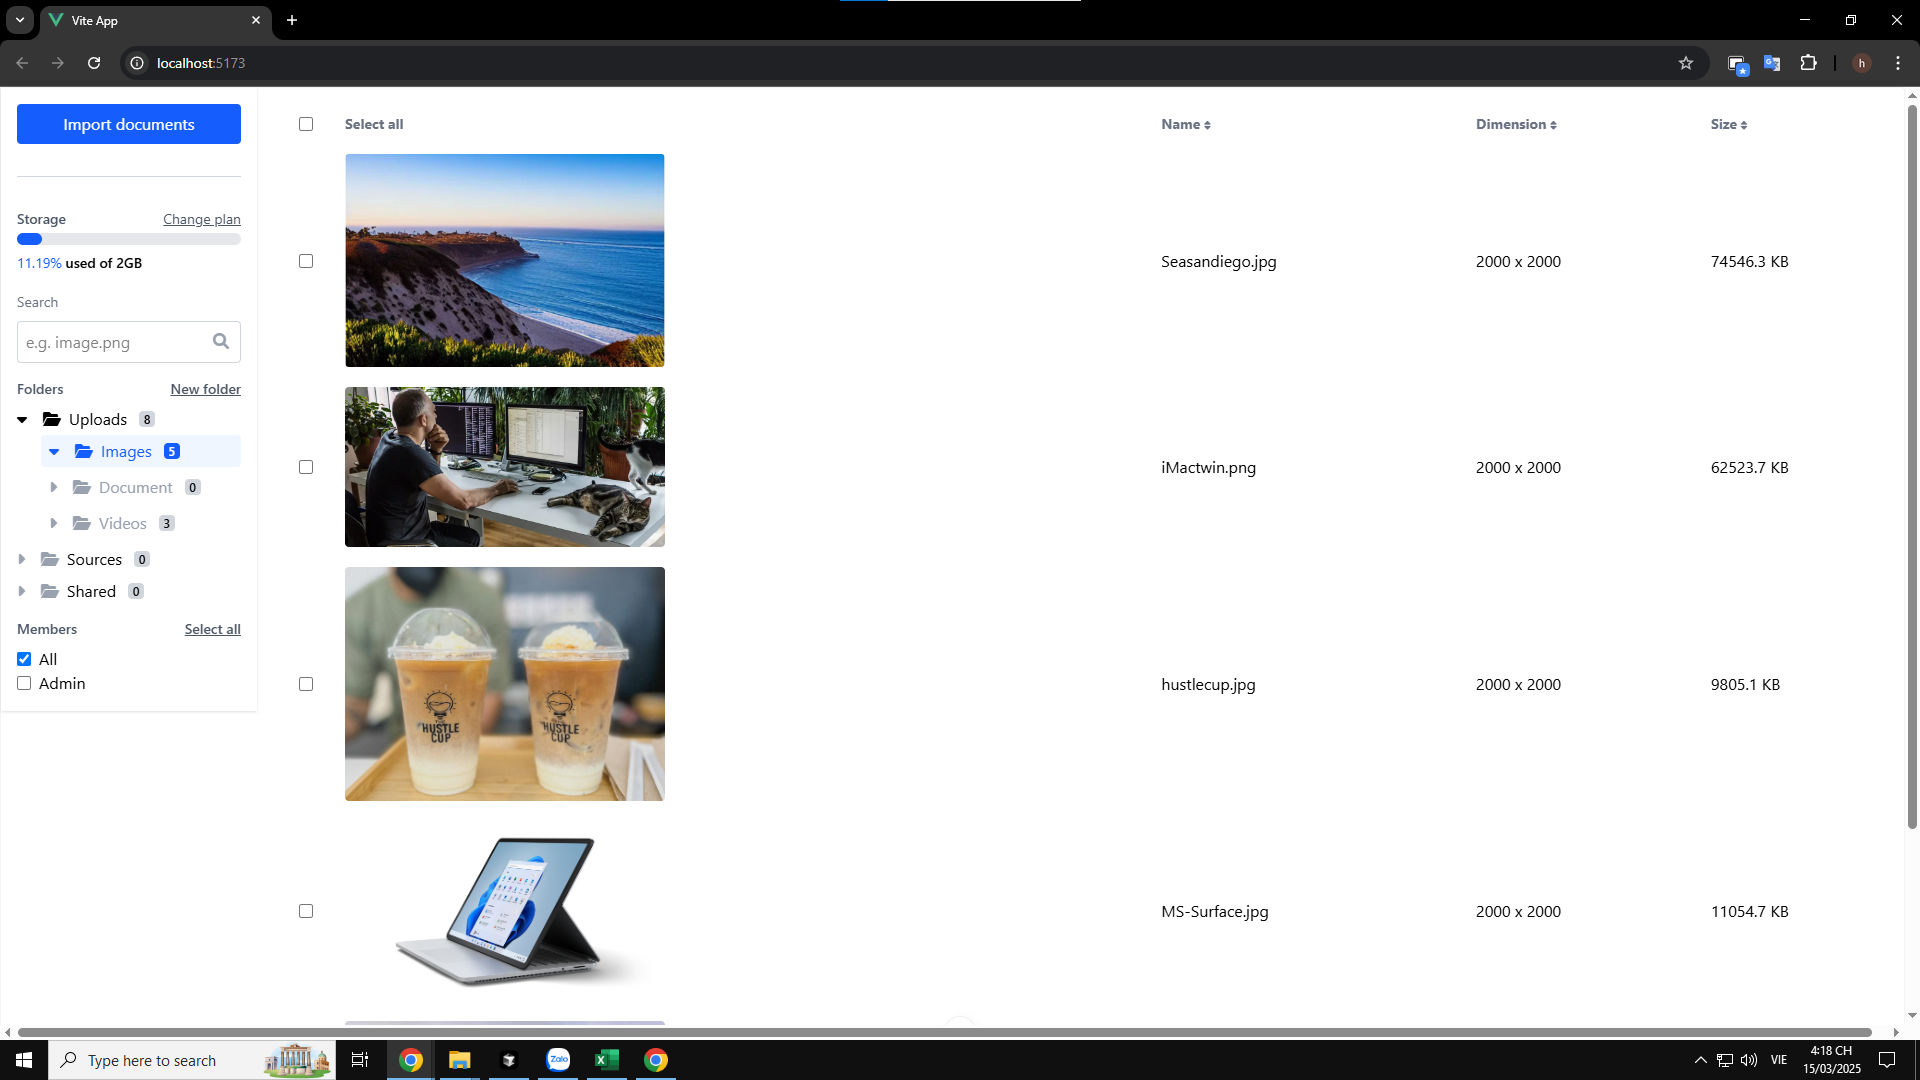
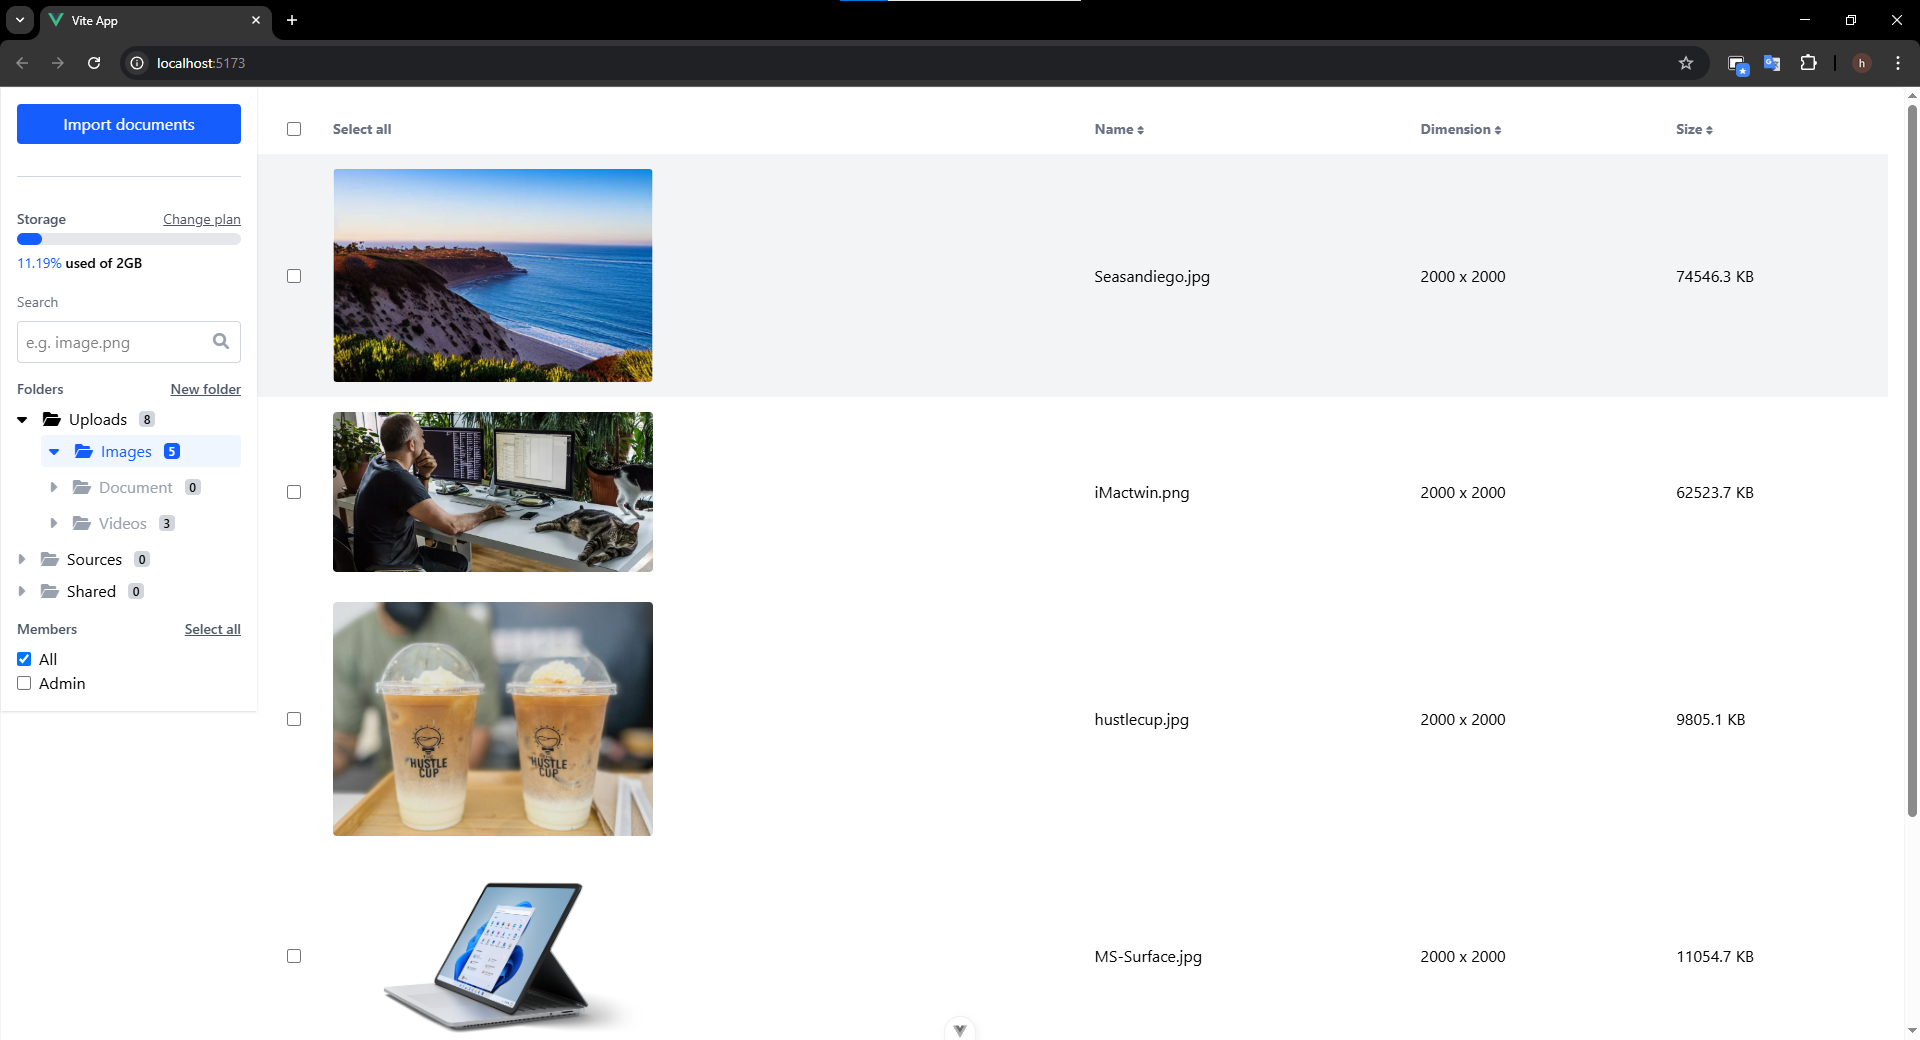
update

diff --git a/frontend/src/components/Table.vue b/frontend/src/components/Table.vue
@@ -33,7 +33,7 @@ const getSortIcon = (column: SortColumn) => {
 
 <template>
   <main class="flex-1 p-4 pl-64">
-    <table class="w-full ml-8">
+    <table class="w-full">
       <thead>
         <tr class="text-gray-500 text-sm text-left">
           <th class="flex items-center gap-8">
@@ -72,6 +72,7 @@ const getSortIcon = (column: SortColumn) => {
 <style scoped>
 th,
 td {
-  padding: 10px;
+  padding: 15px;
+  padding-left: 30px;
 }
 </style>
